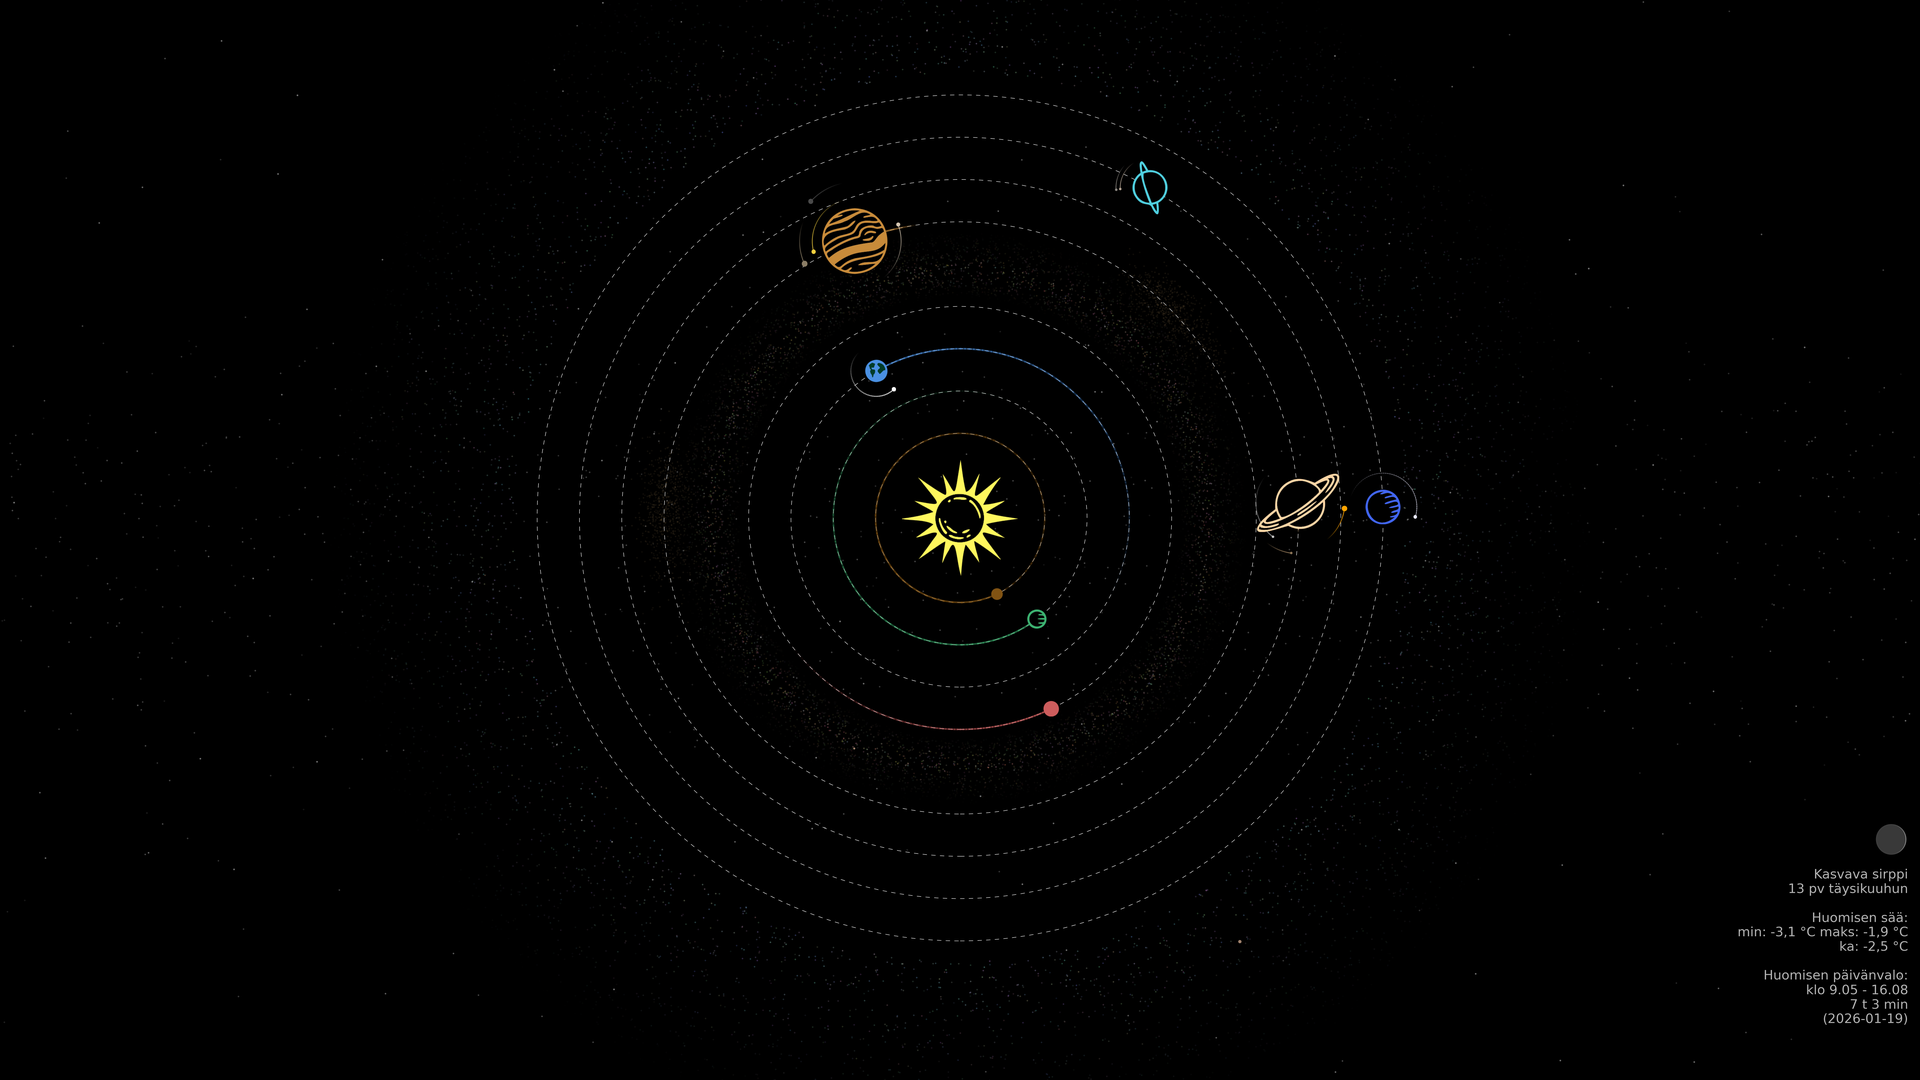
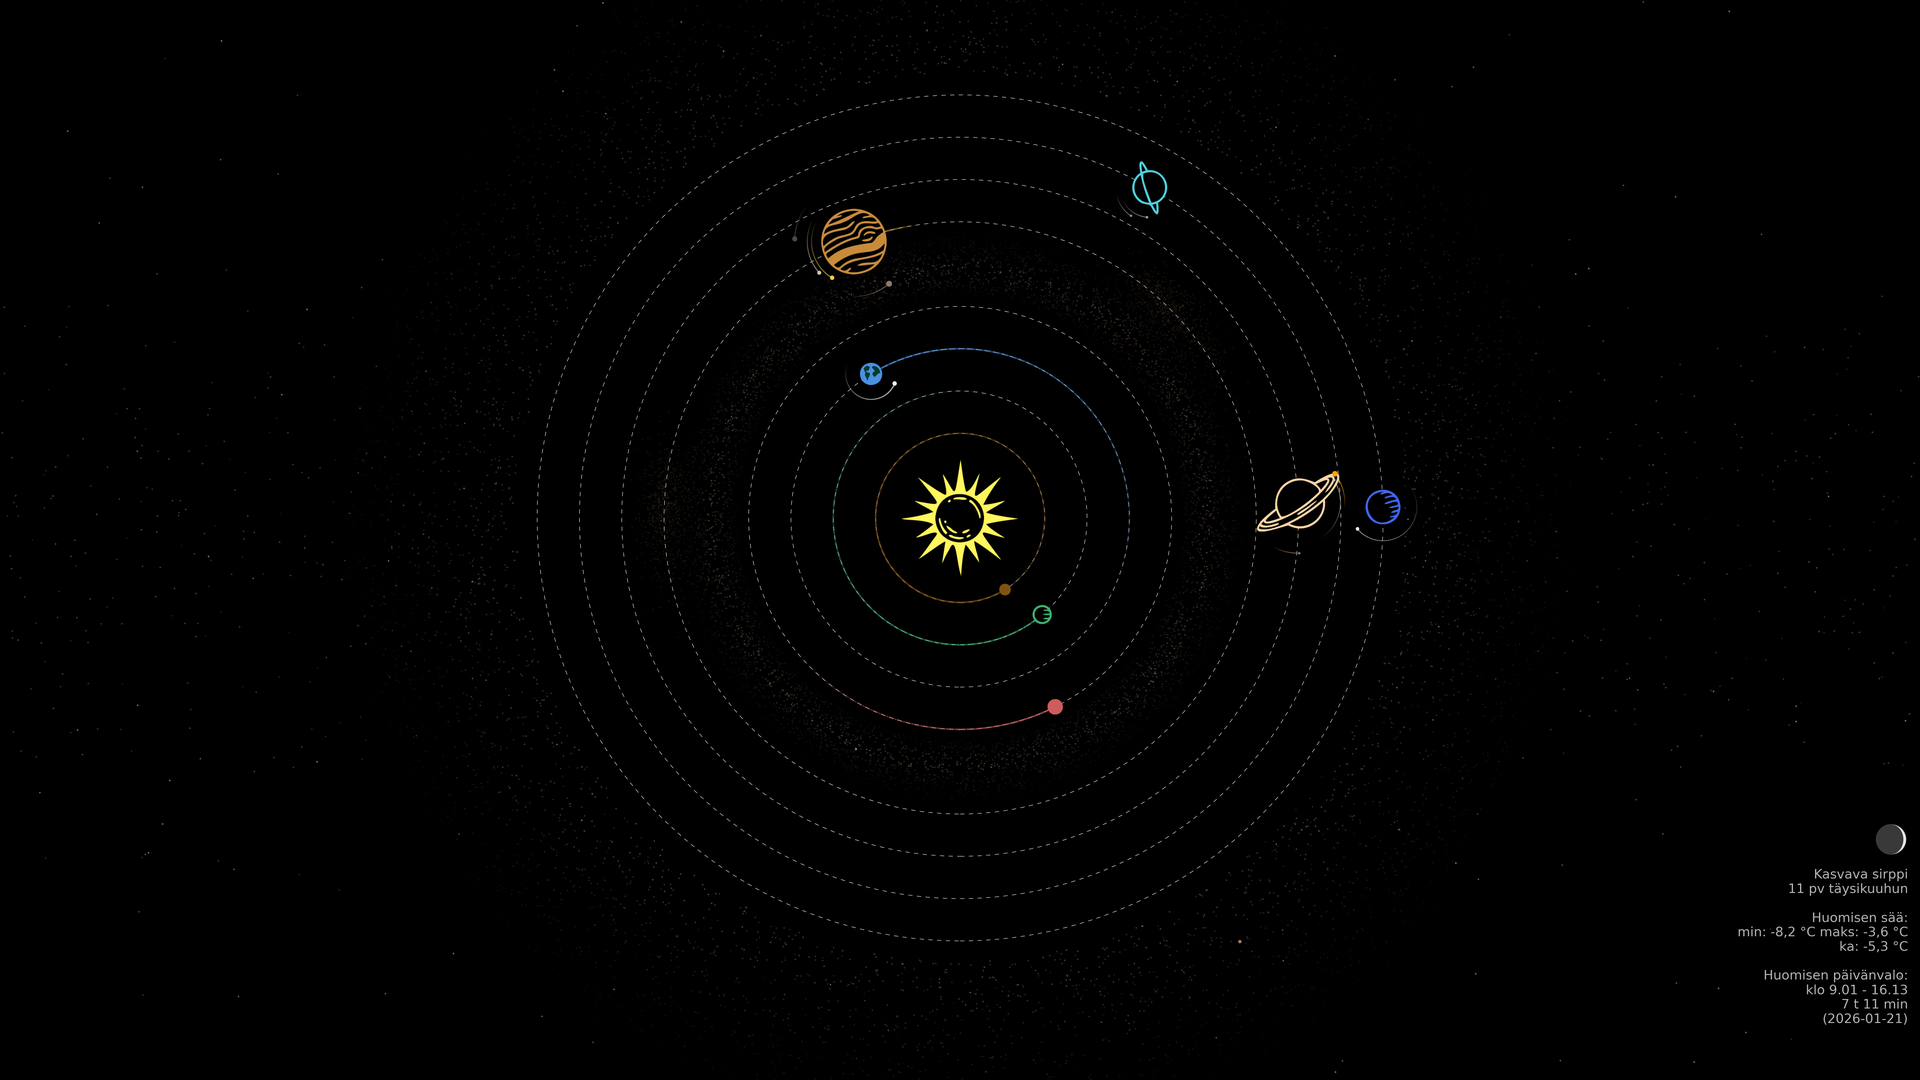
Background stars masked from inside planet rings

diff --git a/solarmap.py b/solarmap.py
@@ -251,42 +251,7 @@ cy = cy + cy_offset
 
 
 # ═══════════════════════════════════════════════════════════════════════════
-# 6. BACKGROUND STARS
-# ═══════════════════════════════════════════════════════════════════════════
-
-# Calculate aspect-aware limits for stars
-aspect = fig_width / fig_height
-if fig_aspect > 1:  # Wider than tall
-    star_xlim = (-1.3 * aspect, 1.3 * aspect)
-    star_ylim = (-1.3, 1.3)
-else:  # Taller than wide
-    star_xlim = (-1.3, 1.3)
-    star_ylim = (-1.3 / aspect, 1.3 / aspect)
-
-# Generate stars
-np.random.seed(RANDOM_SEED)
-
-# Base stars
-num_stars = STARS_CONFIG['base_count']
-star_x = np.random.uniform(star_xlim[0], star_xlim[1], num_stars)
-star_y = np.random.uniform(star_ylim[0], star_ylim[1], num_stars)
-base_min, base_max = STARS_CONFIG['base_size_range']
-star_sizes = np.random.uniform(base_min, base_max, num_stars)
-ax.scatter(star_x, star_y, s=star_sizes, c='white', alpha=STARS_CONFIG['base_alpha'], marker='.')
-
-# Dense band
-band_stars = STARS_CONFIG['band_count']
-band_x = np.random.uniform(star_xlim[0], star_xlim[1], band_stars)
-band_y = np.random.normal(0, STARS_CONFIG['band_width'], band_stars)
-band_min, band_max = STARS_CONFIG['band_size_range']
-band_sizes = np.random.uniform(band_min, band_max, band_stars)
-ax.scatter(band_x, band_y, s=band_sizes, c='white', alpha=STARS_CONFIG['band_alpha'], marker='.')
-
-
-
-
-# ═══════════════════════════════════════════════════════════════════════════
-# 7. PLANETARY RINGS AND RADII
+# 6. PLANETARY RINGS AND STAR FIELD
 # ═══════════════════════════════════════════════════════════════════════════
 
 # Rings
@@ -311,11 +276,43 @@ for i, r in enumerate(rings[:-1]):  # All rings except the last one
 # Radii for each planet
 planet_radii = {p.name: rings[i] for i, p in enumerate(planets)}
 
+# Generate stars
+np.random.seed(RANDOM_SEED)
+
+# Calculate Neptune's radius (will be defined later as rings[7])
+neptune_r = planet_radii['Neptune']
+
+# Base stars
+num_stars = STARS_CONFIG['base_count']
+star_x = np.random.uniform(star_xlim[0], star_xlim[1], num_stars)
+star_y = np.random.uniform(star_ylim[0], star_ylim[1], num_stars)
+
+# Filter out stars inside Neptune's orbit
+star_distances = np.sqrt((star_x - cx)**2 + (star_y - cy)**2)
+mask = star_distances > neptune_r * 1.05
+star_x = star_x[mask]
+star_y = star_y[mask]
+star_sizes = np.random.uniform(base_min, base_max, len(star_x))
+ax.scatter(star_x, star_y, s=star_sizes, c='white', alpha=STARS_CONFIG['base_alpha'], marker='.')
+
+# Dense band
+band_stars = STARS_CONFIG['band_count']
+band_x = np.random.uniform(star_xlim[0], star_xlim[1], band_stars)
+band_y = np.random.normal(0, STARS_CONFIG['band_width'], band_stars)
+
+# Filter out band stars inside Neptune's orbit
+band_distances = np.sqrt((band_x - cx)**2 + (band_y - cy)**2)
+band_mask = band_distances > neptune_r * 1.05
+band_x = band_x[band_mask]
+band_y = band_y[band_mask]
+band_sizes = np.random.uniform(band_min, band_max, len(band_x))
+ax.scatter(band_x, band_y, s=band_sizes, c='white', alpha=STARS_CONFIG['band_alpha'], marker='.')
+
 
 
 
 # ═══════════════════════════════════════════════════════════════════════════
-# 8. PLOTTING PLANETS AND OBJECTS
+# 7. PLOTTING PLANETS AND OBJECTS
 # ═══════════════════════════════════════════════════════════════════════════
 
 # Sun
@@ -411,7 +408,7 @@ for planet in planets:
 
 
 # ═══════════════════════════════════════════════════════════════════════════
-# 9. ASTEROIDS
+# 8. ASTEROIDS
 # ═══════════════════════════════════════════════════════════════════════════
 
 # Asteroid belt between Mars and Jupiter
@@ -461,11 +458,10 @@ ax.scatter(asteroid_x, asteroid_y, s=asteroid_sizes, c=asteroid_colors, alpha=as
 
 
 # ═══════════════════════════════════════════════════════════════════════════
-# 9.1 KUIPER BELT
+# 8.1 KUIPER BELT
 # ═══════════════════════════════════════════════════════════════════════════
 
 # Ranges for Kuiper belt
-neptune_r = planet_radii['Neptune']
 kuiper_inner = neptune_r * 1.05
 kuiper_outer = neptune_r * 1.5
 
@@ -499,7 +495,7 @@ ax.scatter(kuiper_x, kuiper_y, s=kuiper_sizes, c=kuiper_colors,
 
 
 # ═══════════════════════════════════════════════════════════════════════════
-# 9.2 JUPITER TROJANS
+# 8.2 JUPITER TROJANS
 # ═══════════════════════════════════════════════════════════════════════════
 
 # Jupiter Trojans - get Jupiter's position
@@ -541,7 +537,7 @@ trojan_cloud(jupiter_r, jupiter_L, -60)   # L5
 
 
 # ═══════════════════════════════════════════════════════════════════════════
-# 10. MOONS AND DWARF PLANETS
+# 9. MOONS AND DWARF PLANETS
 # ═══════════════════════════════════════════════════════════════════════════
 
 # Jupiter's moons
@@ -645,9 +641,8 @@ for moon_name, data in earth_moon_data.items():
 
 # Neptune's moon Triton
 neptune_theta = longitude_to_theta(longitudes['Neptune'])
-neptune_r_plot = planet_radii['Neptune']
-neptune_x = cx + neptune_r_plot * math.cos(neptune_theta)
-neptune_y = cy + neptune_r_plot * math.sin(neptune_theta)
+neptune_x = cx + neptune_r * math.cos(neptune_theta)
+neptune_y = cy + neptune_r * math.sin(neptune_theta)
 
 epoch_jd_2025 = 2460676.5 # Reference epoch: January 1, 2025, 00:00 UTC (JD 2460676.5)
 days_since_epoch = utc.ut - epoch_jd_2025
@@ -818,7 +813,7 @@ ax.add_artist(AnnotationBbox(ceres_imagebox, (ceres_x, ceres_y), frameon=False))
 
 
 # ═══════════════════════════════════════════════════════════════════════════
-# 11. CANVAS FINALIZATION
+# 10. CANVAS FINALIZATION
 # ═══════════════════════════════════════════════════════════════════════════
 
 # Limits and aspect
@@ -838,7 +833,7 @@ ax.axis('off')
 
 
 # ═══════════════════════════════════════════════════════════════════════════
-# 12. BOTTOM RIGHT INFO
+# 11. BOTTOM RIGHT INFO
 # ═══════════════════════════════════════════════════════════════════════════
 
 if show_info_text:
@@ -887,7 +882,7 @@ if show_info_text:
 
 
 # ═══════════════════════════════════════════════════════════════════════════
-# 12.1 MOON PHASE
+# 11.1 MOON PHASE
 # ═══════════════════════════════════════════════════════════════════════════
 
     # Get moon phase info
@@ -928,7 +923,7 @@ if show_info_text:
 
 
 # ═══════════════════════════════════════════════════════════════════════════
-# 12.2 PLOT INFO TEXT
+# 11.2 PLOT INFO TEXT
 # ═══════════════════════════════════════════════════════════════════════════
 
     cal = utc.Calendar()
@@ -1011,7 +1006,7 @@ if show_info_text:
 
 
 # ═══════════════════════════════════════════════════════════════════════════
-# 13. FINALIZE AND SAVE IMAGE
+# 12. FINALIZE AND SAVE IMAGE
 # ═══════════════════════════════════════════════════════════════════════════
 
 # Save and show
